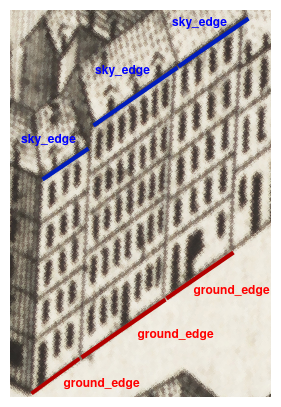
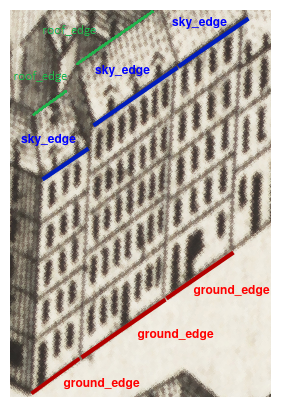
Modify previous readme

diff --git a/README.md b/README.md
@@ -3,17 +3,17 @@
 
 ![BET3D Screen](./images/screenBET3D.png)
 
-The project can be visualized at : [mariestretti.github.io/BET3D](https://mariestretti.github.io/BET3D).
+The project can be visualized at : [victoroxbr.github.io/BET3D](https://victoroxbr.github.io/BET3D/).
 
 ## Context
 This project takes place in the Web 3D lesson of the TSI course at the [ENSG](http://www.ensg.eu). The [IGN](http://www.ign.fr) wants to create a 3D view from the [Turgot map](https://fr.wikipedia.org/wiki/Plan_de_Turgot#/media/Fichier:Turgot_map_of_Paris_-_Norman_B._Leventhal_Map_Center.jpg) of Paris.
 
-The objectives are:
-* Lifting the buildings facades up from the Paris Turgot map
-* Holing the map where the buildings were drawn
-* Viewing the map from the original Turgot perspective
-* Viewing the map from the zenithal perspective
-* Switching between 2D and 3D views
+There is a previous project realised by ENSG students on this page : [BET3D](https://github.com/MarieStretti/BET3D).
+
+The new objectives are:
+* Add roof edges in the modelisation
+* Animate the appearance of the buildings
+* Differenciate the animation of the building and the roof 
 
 
 ## Development
@@ -21,9 +21,9 @@ The objectives are:
 ### Hypothesis and decisions
 
 To complete the objectives, we had to make some decision:
-* Only the facades are lifted up, not the roofs
 * The buildings height in 2D is computed from the distance between the bottom of the building and the top of its facade in the map image.
-* The map was not really holed when the building are lifted up. Indeed, a set of black polygons are drawn over the map in order to hide the facades.
+* The map was not really holed when the building are lifted up. Indeed, a set of black polygons are drawn over the map in order to hide the
+facades.
 
 <div style="text-align:center">
 <img src="./images/edges_schema.png" alt="Edges schema" height="300em">
@@ -33,29 +33,25 @@ To complete the objectives, we had to make some decision:
 ### Process
 
 The steps of the project were:
-1. Georeferencing the map with QGIS:
-    * The files [turgot_map_crop2.jpeg](./images/turgot_map_crop2.jpeg) and [turgot_map_crop2.tif](./images/turgot_map_crop2.tif) refer to a georeferenced crop of the original map
 1. Creating a sample of edges with QGIS:
-    * There are two types of edges: `ground_edges` and `sky_edges` (cf [schema](./images/edges_schema.png))
+    * There are three types of edges: `ground_edges`, `sky_edges` and `roof_edges` (cf [schema](./images/edges_schema.png))
     * The json files of those geometries are in the folder [edges](./edges)
-2. Implementing the application:
+3. Implementing the application:
     1. Loading the GeoJSON
-    2. Creating a geometry for the map in 2D
-    3. Creating a geometry for the buildings in 3D
+    2. Creating a geometry roof for the map in 2D
+    3. Creating a geometry roof for the buildings in 3D
     4. Implementing functionnalities:
-        * a button `zenithView` to switch to the Turgot view
-        * a button `turgotView` to switch to the zenithal view
-        * a radio button `mode3D` to display or not the 3D buildings 
-        * a radio button `showEdges` to display or not the ground and sky edges
+        * rotation of the buildgins on clicking on the `mode_3D` button
+        * differenciate roof and building animation
 
 
 The protocols of this process are explained in the [protocols.md](./protocols.md) file.
 
 
 ## Authors
-* Marie Stretti: 
-   * GitHub: @MarieStretti
-   * GitLab: @MarieStr
-* Fanny Vignolles:
-   * GitHub: @fvgls
-   * GitLab: @fvgls
+* Hoang-Viet Nguyen: 
+   * GitHub: @reinereina
+   * GitLab: @nguyhv25
+* Victor Oxombre:
+   * GitHub: @victoroxbr
+   * GitLab: @oxbr
